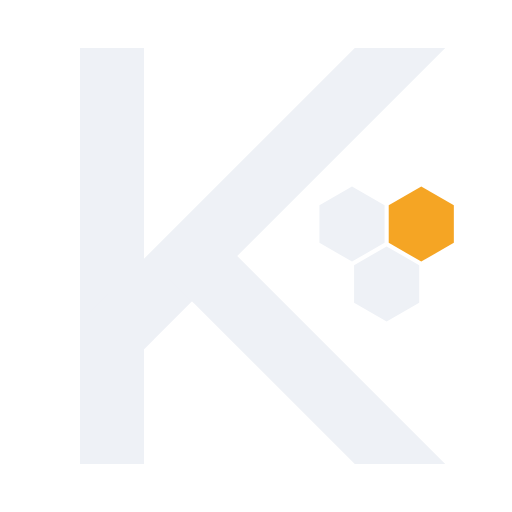
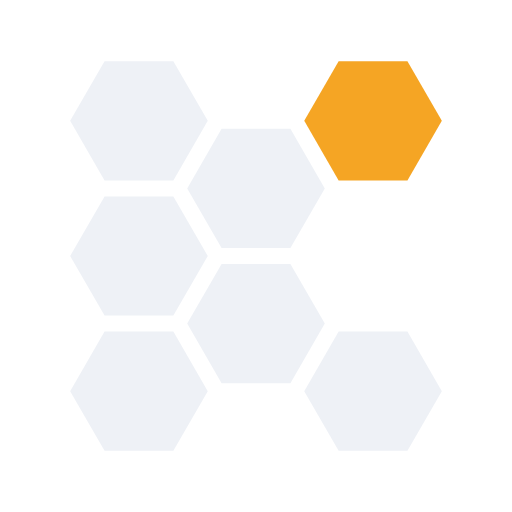
Make the Koodam mark from 7 hexagon pods (#120)
* Make the Koodam mark from 7 hexagon pods

The K is now a stem of 3 pods and 2 arms of 2 pods. One pod is saffron.
The social preview shows the mark, the name, the tagline and a pod field.
Update docs/brand.md and export the PNG files and favicon.ico again.

Fixes #119

* Use the joined Tamil name in the brand doc

---------

Changed region(s): [[0.5938, 0.0938, 0.9062, 0.5312]]

diff --git a/docs/brand.md b/docs/brand.md
@@ -1,6 +1,6 @@
 # Brand
 
-The Koodam mark is a K with a cluster of 3 hexagon pods in its open side. The K is the cluster, the factory (தொழிற்கூடம்). The pods are the agents that work in it. One pod is saffron: it is the agent at work now.
+The Koodam mark is a K made of 7 hexagon pods: a stem of 3 pods and 2 arms of 2 pods each. The cluster is its pods, and the workspace (தொழில்கூடம்) is the people and the agents that work in it. One pod is saffron: it is the agent at work now. The same honeycomb fills the social preview and the blog images.
 
 ## Files
 
@@ -14,7 +14,7 @@ All files are in [`assets/brand/`](../assets/brand/). The SVG files are the sour
 | `koodam-mark-mono-white.svg` | One colour (white), on a dark or a photo background. |
 | `favicon.svg` | Browser tab icon. It changes with the light or dark colour scheme. |
 | `favicon.ico` | Browser tab icon, 16, 32 and 64 px. |
-| `koodam-social.svg` | GitHub social preview, 1280 x 640. |
+| `koodam-social.svg` | GitHub social preview, 1280 x 640, with the name and the tagline. |
 | `png/koodam-mark[-dark]-N.png` | PNG exports at 16, 32, 64, 128, 256 and 512 px. |
 | `png/koodam-social.png` | The social preview as a PNG. |
 
@@ -28,23 +28,24 @@ python3 hack/brand-export.py
 
 | Name | Hex | Use |
 | --- | --- | --- |
-| Ink | `#16213A` | The K and the pods on a light background. |
-| Light | `#EEF1F6` | The K and the pods on a dark background. |
-| Saffron | `#F5A524` | One pod only. |
+| Ink | `#16213A` | The pods on a light background. The ground of the social preview. |
+| Light | `#EEF1F6` | The pods on a dark background. |
+| Saffron | `#F5A524` | One pod only: the end of the upper arm. |
+| Raised ink | `#223052` | The pod field in the social preview. Not in the mark. |
 
 ## Clear space
 
-Keep a clear space around the mark on all sides. The clear space is 1/8 of the mark width. On a 64 px mark, this is 8 px, the width of the K stem.
+Keep a clear space around the mark on all sides. The clear space is 1/8 of the mark width. The SVG files have this space in the 64 x 64 view box, so do not crop them.
 
 ## Minimum size
 
-The mark is 16 px minimum. At 16 px the pods show as one spot. Use the full mark at 32 px or more.
+The mark is 16 px minimum. At 16 px the pods show as a texture with one saffron spot. Use the mark at 32 px or more if the K must be legible.
 
 ## Do not
 
-- Do not use saffron on more than one pod, or on the K.
-- Do not change the colours, the angle of the arms or the stroke width.
-- Do not move, add or remove pods.
+- Do not use saffron on more than one pod.
+- Do not change the colours, the pod size or the gap between the pods.
+- Do not move, add or remove pods. Do not turn the pods: the flat side is at the top.
 - Do not put the full colour mark on a background with low contrast. Use the dark or the one colour file.
 - Do not add a shadow, an outline, a gradient or an effect.
 - Do not put the mark in a heptagon or a wheel. That is the shape of a different project.
